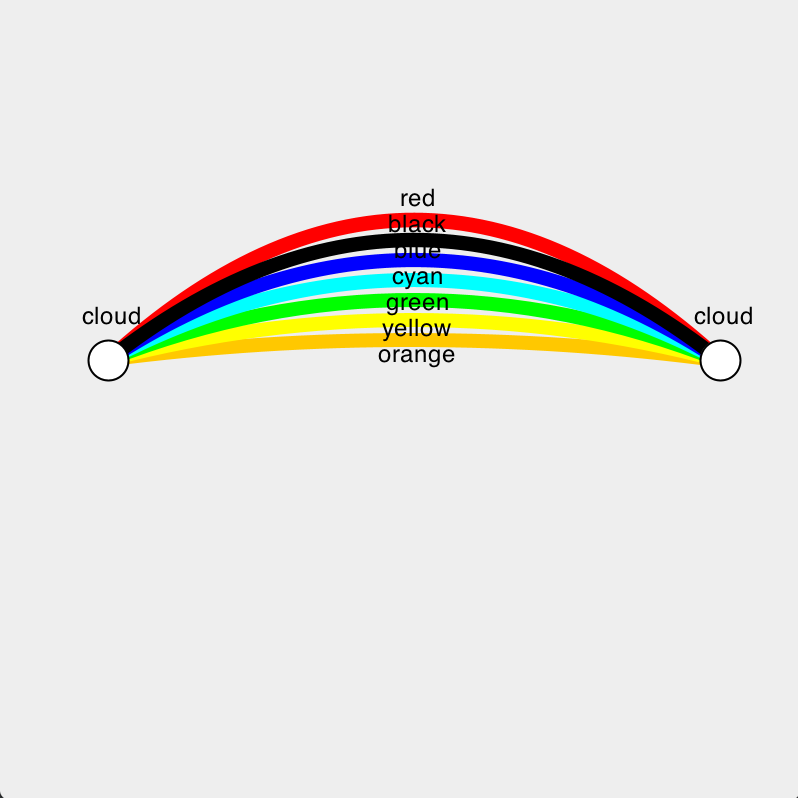
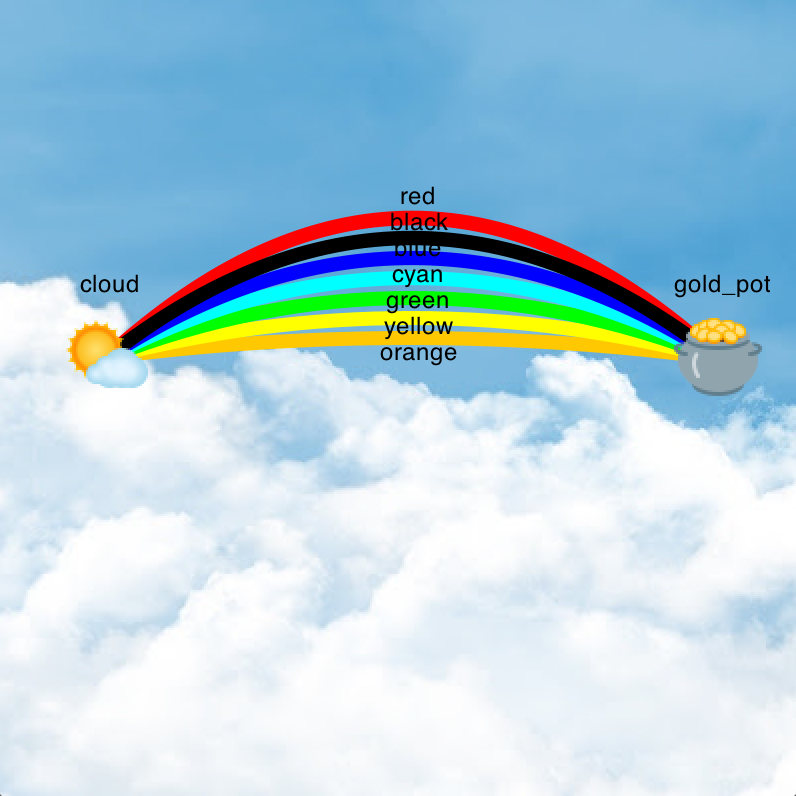
Add more customization to graph examples

diff --git a/example/main.cpp b/example/main.cpp
@@ -19,15 +19,18 @@ void drawGraphFromFile(std::string name, unsigned int port){
     std::ifstream nodes("../resources/graphs/"+name+"/nodes.txt");
     std::ifstream edges("../resources/graphs/"+name+"/edges.txt");
     std::ifstream window("../resources/graphs/"+name+"/window.txt");
-    std::string line;
+    std::string line, background_path;
     std::istringstream iss;
-    unsigned int n_nodes, n_edges, height, width, v1, v2, type, scale, dynamic, thickness;
+    unsigned int n_nodes, n_edges, height, width, v1, v2, type, scale, dynamic, thickness, size, dashed, curved;
     float x, y;
-    char color[20], label[256];
+    char color[20], label[256], icon_path[256], flow[256], weight[256];
 
-    window >> width >> height >> dynamic >> scale;
+    window >> width >> height >> dynamic >> scale >> dashed >> curved >> background_path;
     GraphViewer *gv = new GraphViewer(width, height, dynamic, port);
+    gv->setBackground(background_path);
     gv->createWindow(width, height);
+    gv->defineEdgeDashed(dashed);
+    gv->defineEdgeCurved(curved);
 
     // read num of nodes
     std::getline(nodes, line);
@@ -37,11 +40,14 @@ void drawGraphFromFile(std::string name, unsigned int port){
     // draw nodes
     for(int i = 0; i < n_nodes;i++) {
         std::getline(nodes, line);
-        sscanf( line.c_str(), "(%f, %f, %s ,%s )", &x, &y, color, label);
+        sscanf( line.c_str(), "(%f, %f, %s , %s , %u, %s )", &x, &y, color, label, &size, icon_path);
         gv->addNode(i , x*scale, y*scale);
         gv->setVertexColor(i, color);
         if (label[0] != '-')
             gv->setVertexLabel(i, label);
+        if (icon_path[0] != '-')
+            gv->setVertexIcon(i, std::string(icon_path));
+        gv->setVertexSize(i, size);
     }
 
     // read num of edges
@@ -51,13 +57,19 @@ void drawGraphFromFile(std::string name, unsigned int port){
     //draw edges
     for(int i = 0; i < n_edges ; i++) {
         std::getline(edges, line);
-        sscanf( line.c_str(), "(%d, %d, %d, %s ,%d, %s )", &v1, &v2, &type, color, &thickness, label);
+        sscanf( line.c_str(), "(%u, %u, %u, %s ,%u, %s , %s , %s )", &v1, &v2, &type, color, &thickness, label, flow, weight);
         (type)? gv->addEdge(i, v1, v2, EdgeType::DIRECTED): gv->addEdge(i, v1, v2, EdgeType::UNDIRECTED);
         gv->setEdgeColor(i, color);
         gv->setEdgeThickness(i, thickness);
         if (label[0] != '-')
             gv->setEdgeLabel(i, label);
+        if (flow[0] != '%')
+            gv->setEdgeFlow(i, atoi(flow));
+        if (weight[0] != '%')
+            gv->setEdgeWeight(i, atoi(weight));
     }
+
+    gv->rearrange();
 }
 
 
